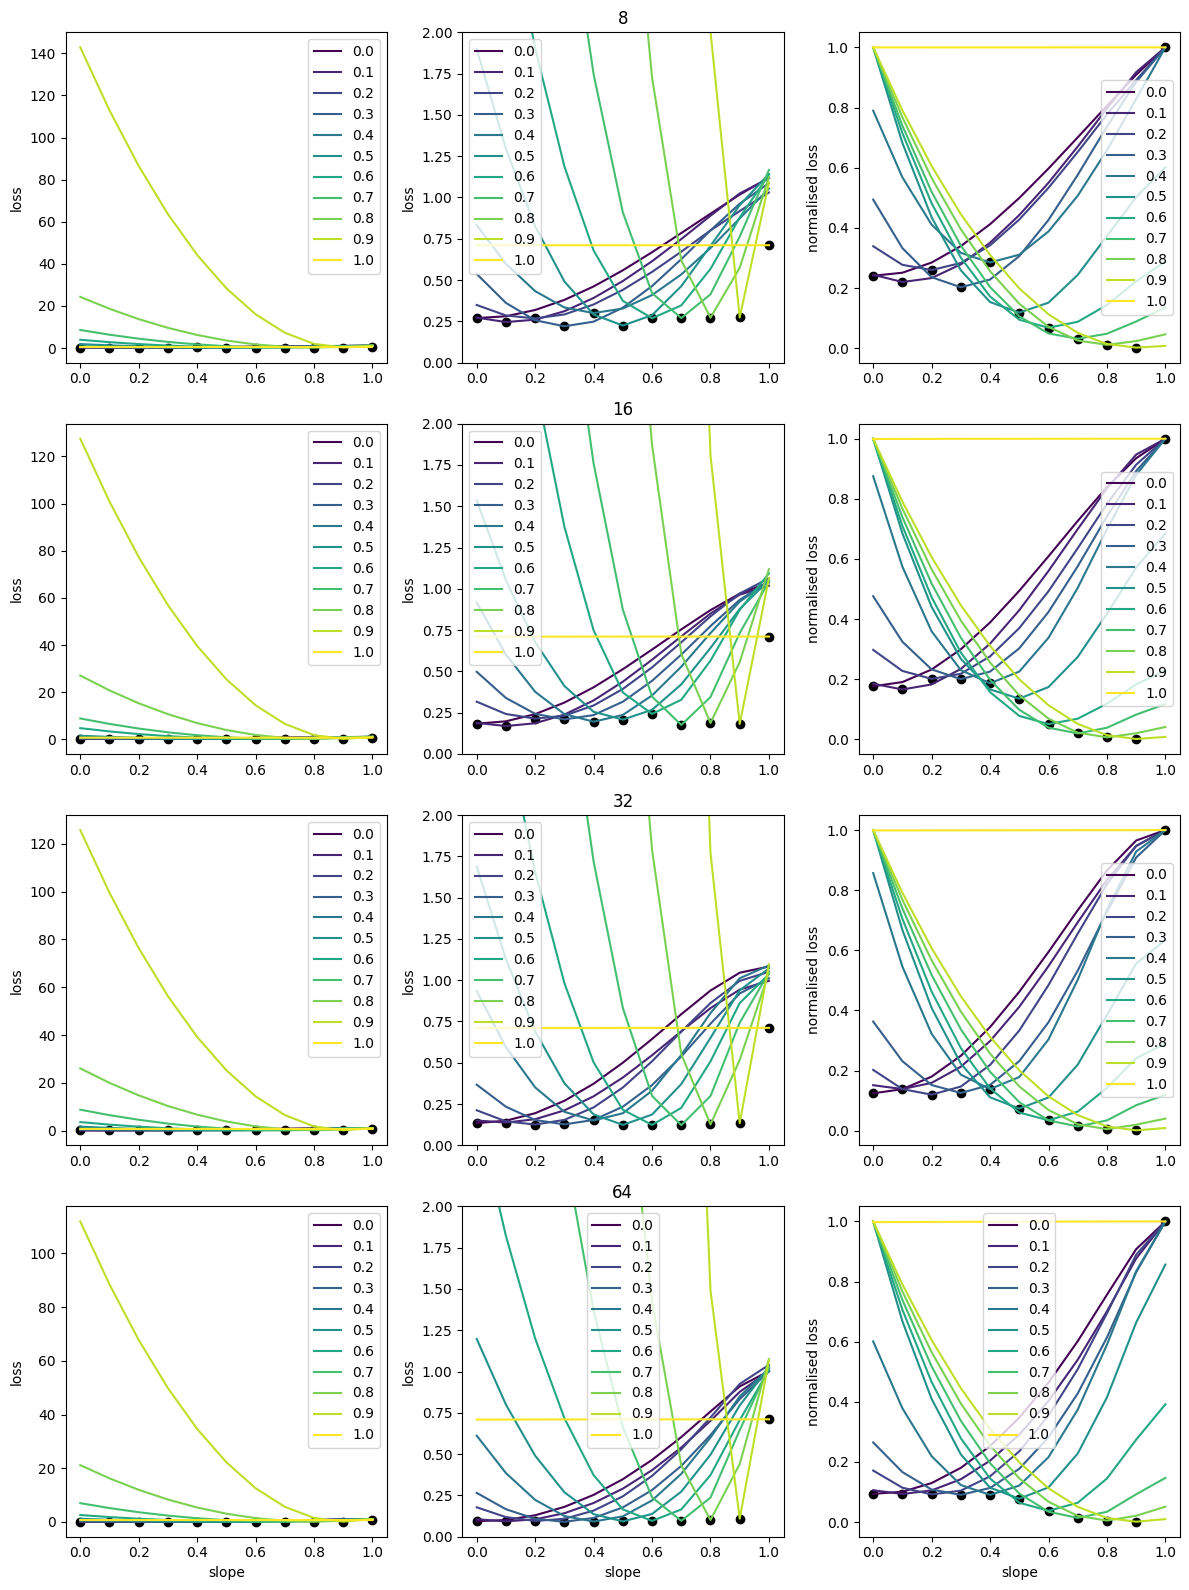
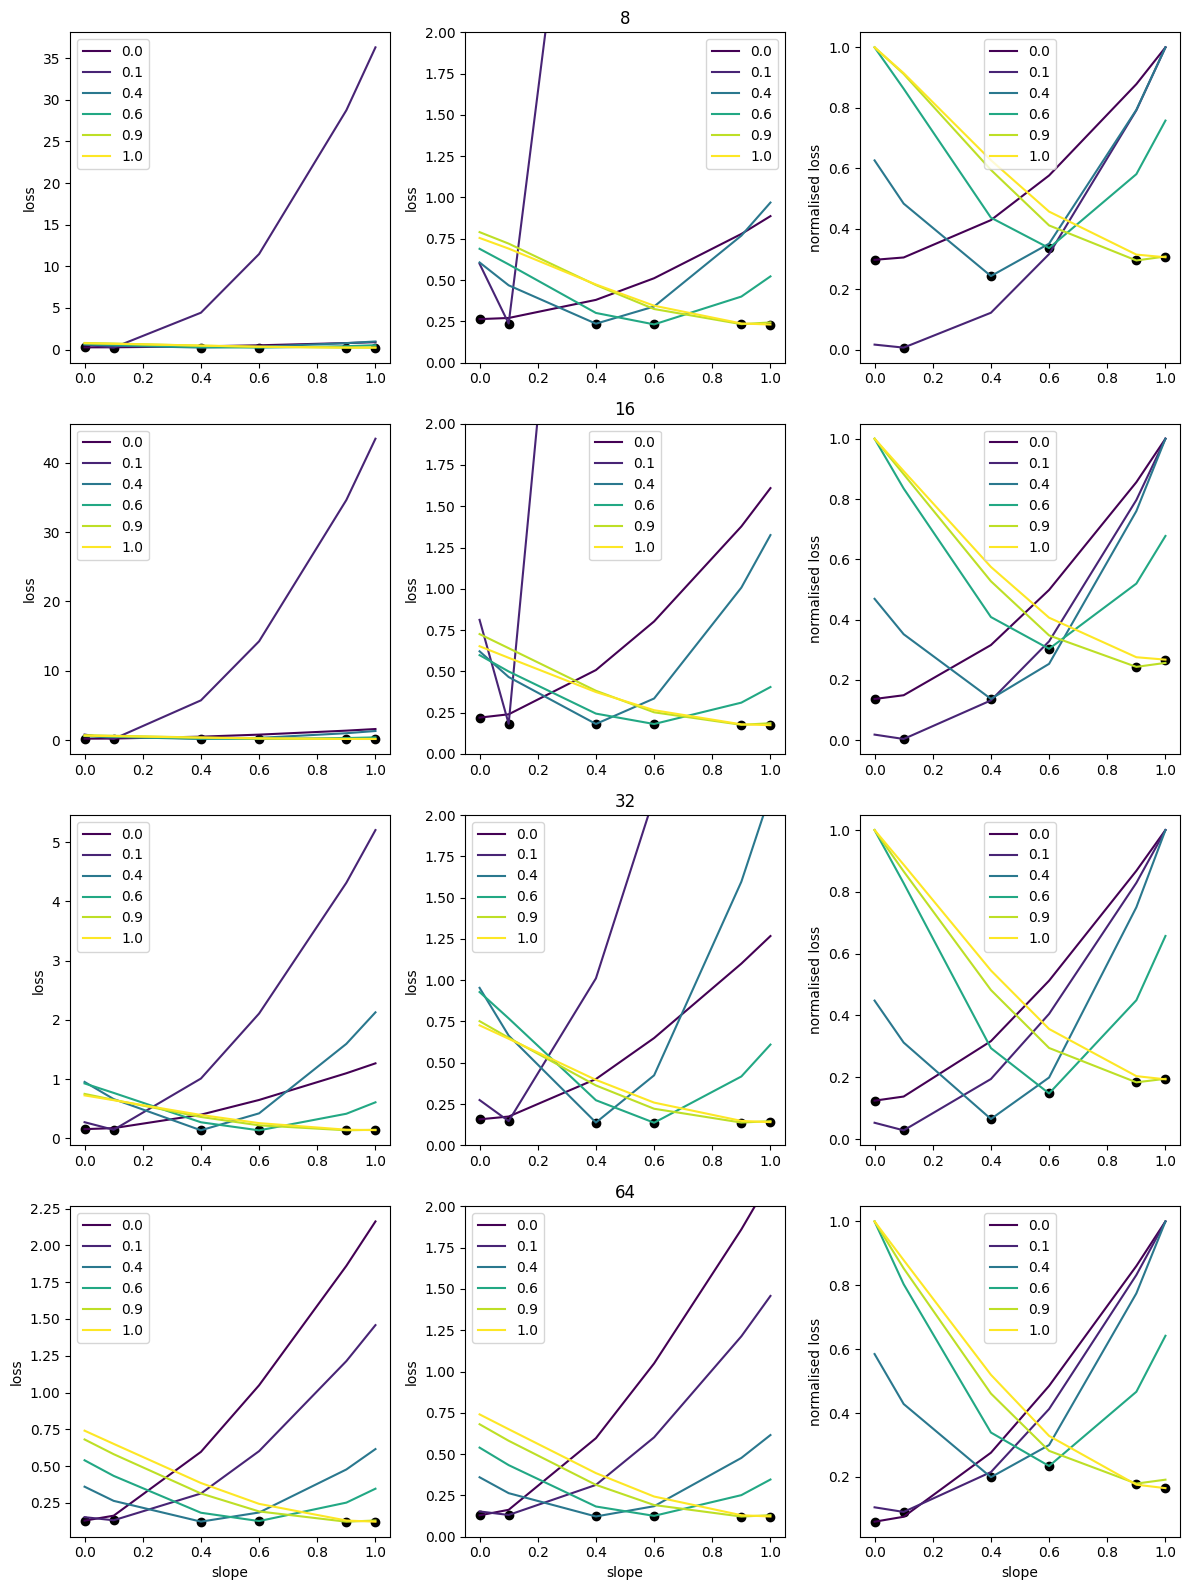
effect of latent dimension

diff --git a/projects/controlling_superposition/overview.html b/projects/controlling_superposition/overview.html
@@ -118,7 +118,7 @@ layout: default
     </p>
     <h4>The Effect of Latent Dimension</h4>
     <p>
-        For a latent dimension $d$, the encoder architecture is $[784,256,128,d]$ and our decoder architecture is $[d,128,256,784]$. At the intersection of these blocks we apply an activation function that is linear for positive values and for negative values it has a slope in the range $\{0.0,0.1,0.2,0.3,0.4,0.5,0.6,0.7,0.8,0.9,1.0\}$. We consider latent dimensions $d\in\{8,16,32,64\}$ and train the models for 10 epochs on the MNIST train set on each of these different slopes for the activation function. After training we then intervene on the activation functions, by varying their slopes and observing the subsequent reconstruction loss.
+        For a latent dimension $d$, the encoder architecture is $[784,128,64,d]$ and our decoder architecture is $[d,64,128,784]$. At the intersection of these blocks we apply an activation function that is linear for positive values and for negative values it has a slope in the range $\{0.0,0.1,0.4,0.6,0.9,1.0\}$. We consider latent dimensions $d\in\{8,16,32,64\}$ and train the models for 10 epochs on the MNIST train set on each of these different slopes for the activation function. After training we then intervene on the activation functions, by varying their slopes and observing the subsequent reconstruction loss.
     </p>
     <img src="/projects/controlling_superposition/images/fixed_latent_dim.png">
     <p>
@@ -132,22 +132,26 @@ layout: default
             We observe that the reconstruction error can vary significantly as we intervene on the activation functions, suggesting that the model is relying on the non-linearity and representing features in superposition. Since the larger models appear to have a relatively flatter curve around the black marker, we could conclude that the larger models are less reliant on the non-linearity and hence are not utilising superposition as much.
         </li>
         <li>
-            Each instance of the model, apart from the fully linear ones, are able to achieve relatively low reconstruction losses. In particular, the reconstruction losses appear to be fairly constant across every slope. Indicating that models can adapt their representations based on the amount of non-linearity they posses. Suggesting that superposition may be a sufficient but not necessary for model performance. 
+            Each instance of the model, are able to achieve relatively low reconstruction losses. In particular, the reconstruction losses appear to be fairly constant across every slope. Indicating that models can adapt their representations based on the amount of non-linearity they posses. Suggesting that superposition may be a sufficient but not necessary for model performance. Furthermore, the right most figures indicate that the more linear models are robust to subsequent interventions. 
         </li>
         <li>
-            As the model gets larger, the reconstruction loss increase experienced as non-linearity is introduced gets smaller. Indicating that larger models are perhaps less reliant on the non-linearities for their performance, and can better distribute their representations, because the introduction of non-linearity does not cancel out interference the model is reliant on to form its constructions.
+            As the model gets larger, the reconstruction loss introduced upon intervention gets smaller. Indicating that larger models are perhaps less reliant on the non-linearities for their performance, and can better distribute their representations, because the introduction of non-linearity does not cancel out interference the model is reliant on to form its constructions.
         </li>
         <li>
-            Regardless of model size, the fully-linear models achieve the same reconstruction loss, and this doesn't change much as non-linearity is introduced into the model. This demonstrates that the models are performing superposition to a certain extent, otherwise the linear models would perform just as well. The fact that this performance is constant across the model sizes indicates that the encoder block is only able to extract a few linear features to represent in the latent space. We would then expect that increasing the size of the encoder block may be able to yield a lower reconstruction error in this linear setting, we'll explore this in the next section.
-        </li>
-        <li>
-            Starting with some non-linearity and then going fully linear is worse than starting out fully linear. In particular, for any slope the loss achieved at the fully linear intervention is roughly the same. Whereas, the more linear the starting model, the worse the loss will be when introducing non-linearity. This is perhaps explained by the fact that in the more linear regimes, the model is more reliant on utilising the interference to inform its reconstructions and so as non-linearities threshold this interference, when non-linearity is introduced the performance suffers. The fact that this effect is less magnified for larger models, as observed in one of our previous points, is because in a larger space the model can represent the features with less interference.
+            The performance of the fully-linear models is relatively consistent across model sizes. Perhaps indicating that the encoder block is only able to extract a few linear features to represent in the latent space. If there were the case, we would expect that increasing the size of the encoder block may be able to yield a lower reconstruction error in the linear setting, we'll explore this in the next section.
         </li>
     </ul>
     <p>
         From these observations we conclude that the non-linearity significantly affects the type of representation learned by the model.
     </p>
     <h4>The Effect of Encoder Size</h4>
+    <p>
+        Here, we fix the latent dimension of the autoencoder to $d=32$ and varying the layer sizes of the encoder block with $e=\{e_1,e_2\}\in\mathbb{N}^2$, so that the encoder block has architecture $\left[784,e_1,e_2,32\right]$. Training this model proceeds as before, however, we only consider the fully non-linear and fully linear regimes. We then test the reconstruction losses of these models using the same activation function that they were trained on.
+    </p>
+    <img src="/projects/controlling_superposition/images/nonlinear_linear_comparison.png">
+    <p>
+        From the above figure we observe that as we increase the size of the encoder block the loss of the linear models decreases, as expected since now the encoder block is able to supply the latent space with linear features to represent. We observe that increase the encoder size beyond a certain size doesn't yield better performance, on the contrary, performance starts to degrade. For these larger encoder sizes, it may be the case that they are too powerful, and providing the latent space too many linear features to represent. In this set up, the latent space can only store a maximum of $32$ features not in superposition.
+    </p>
     <h3>Fully Connected</h3>
     <h4>MNIST</h4>
     <p>
